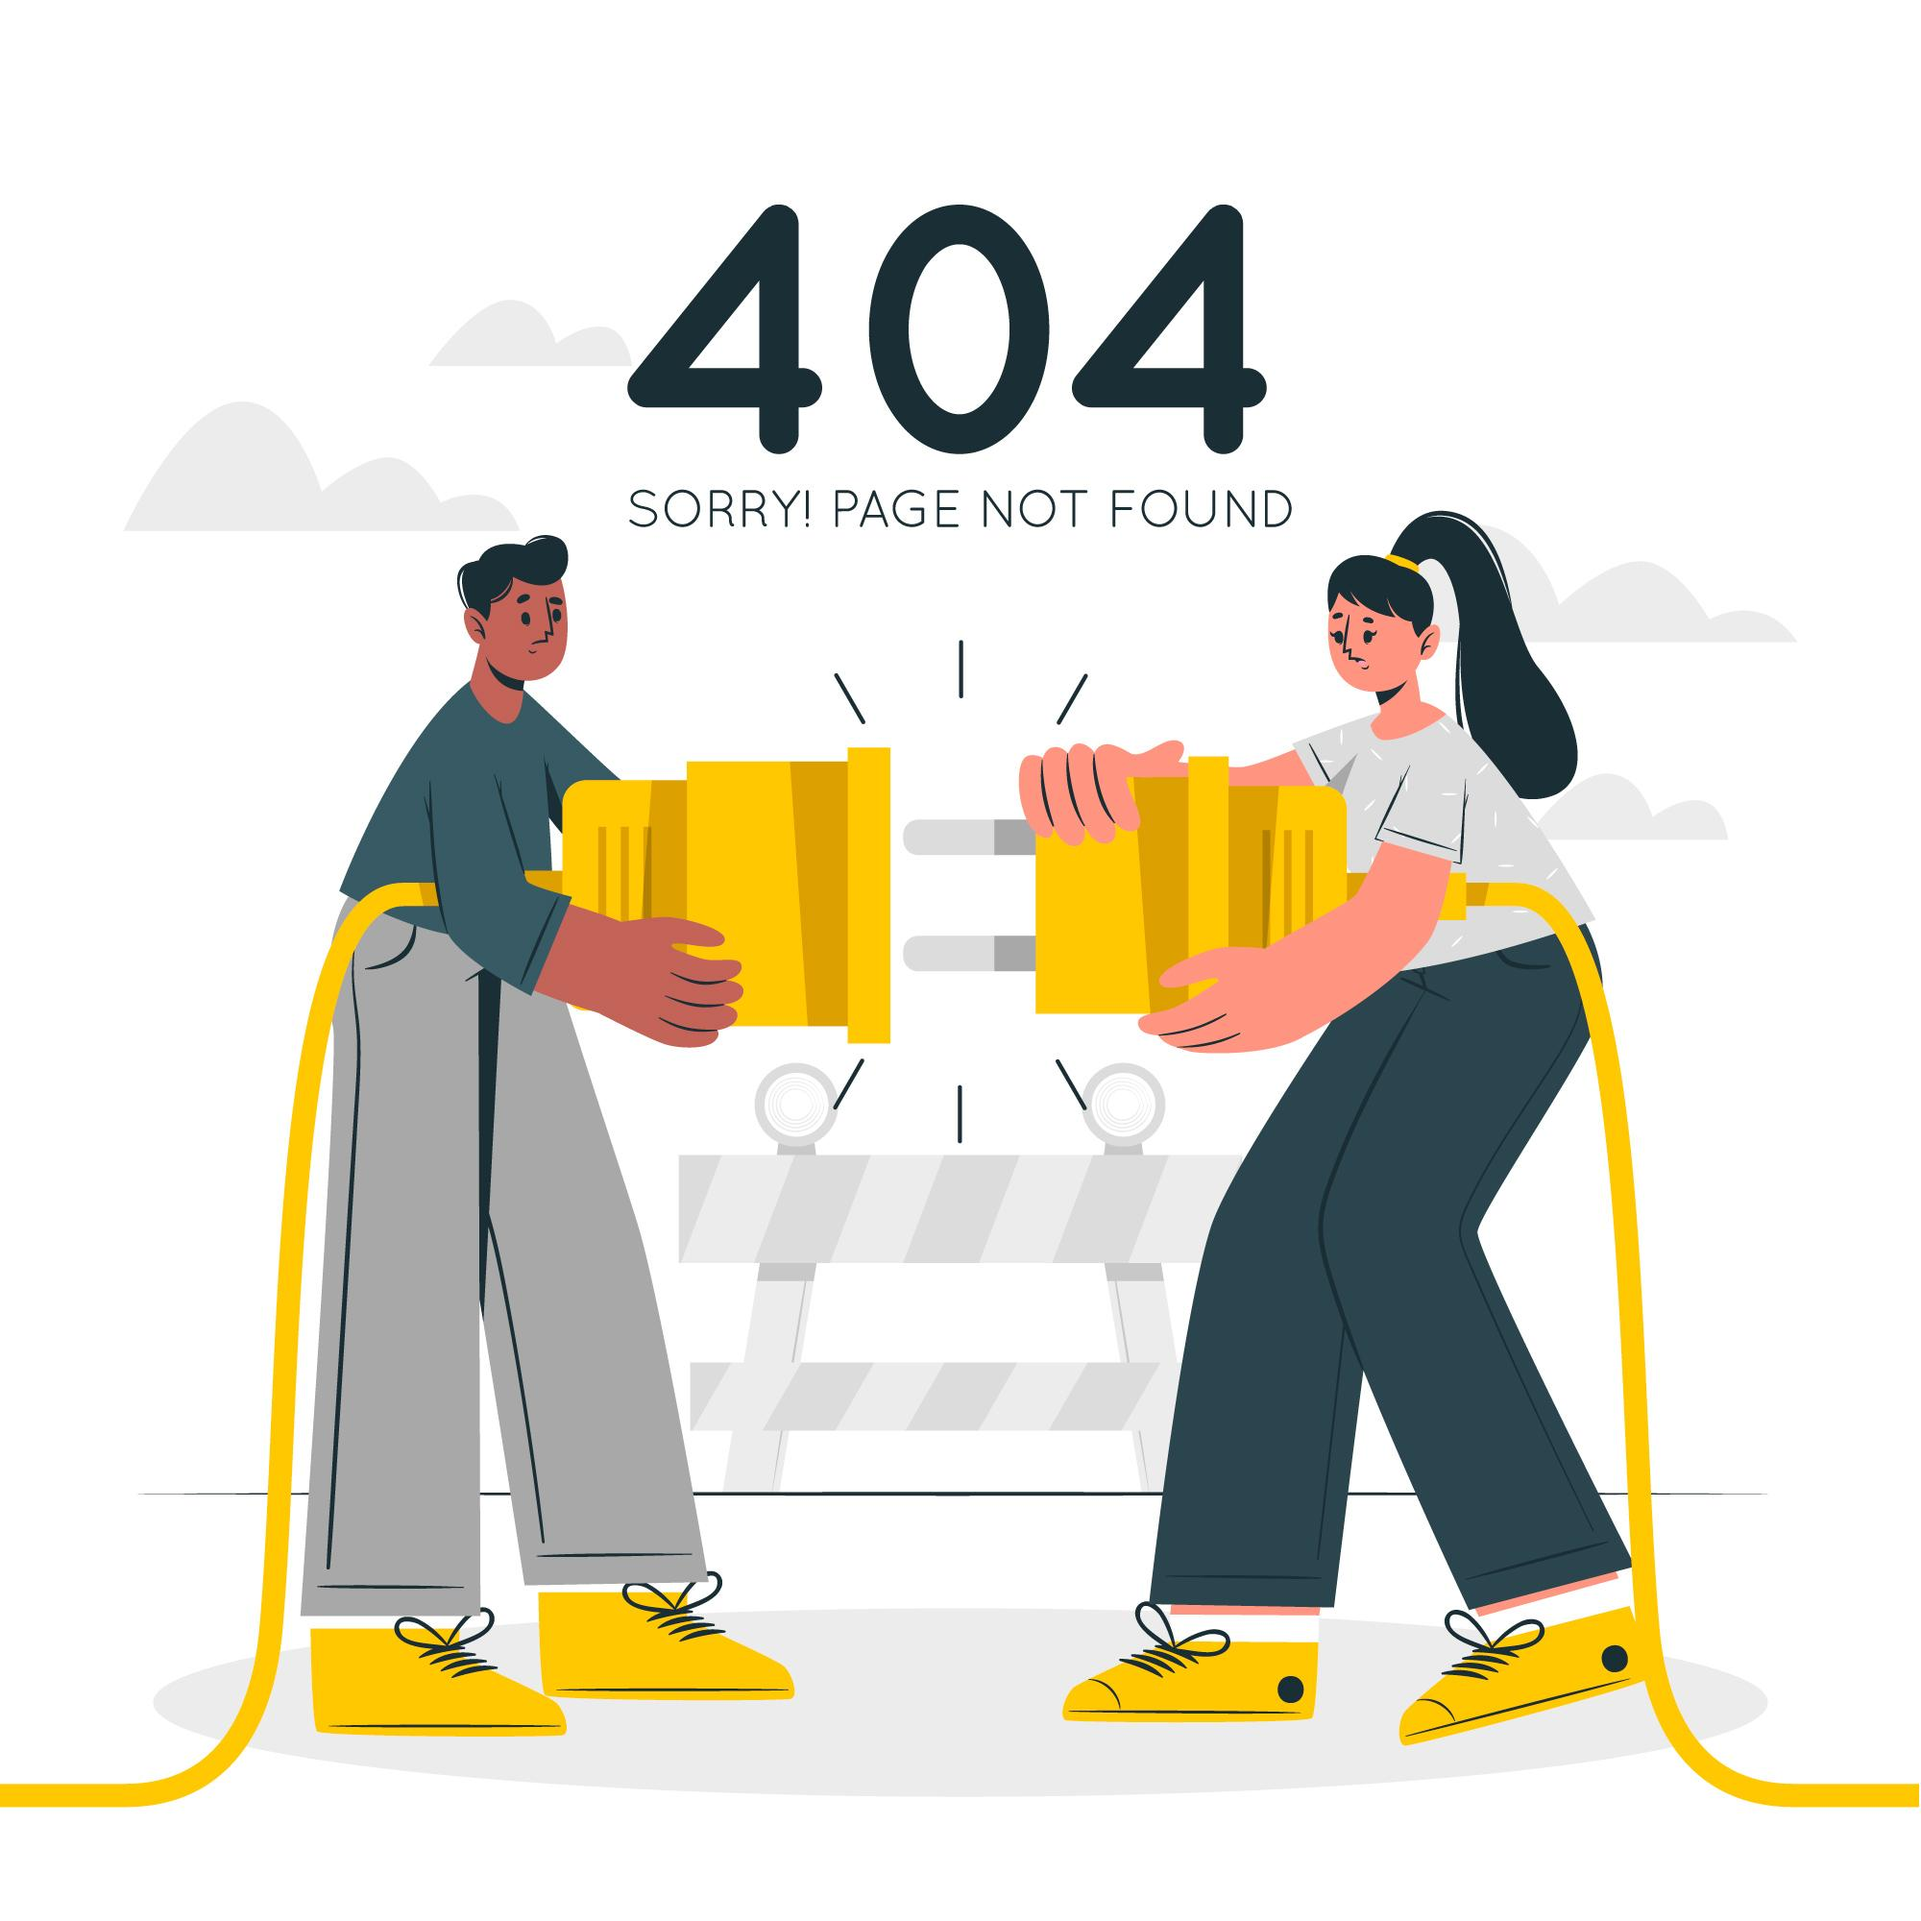
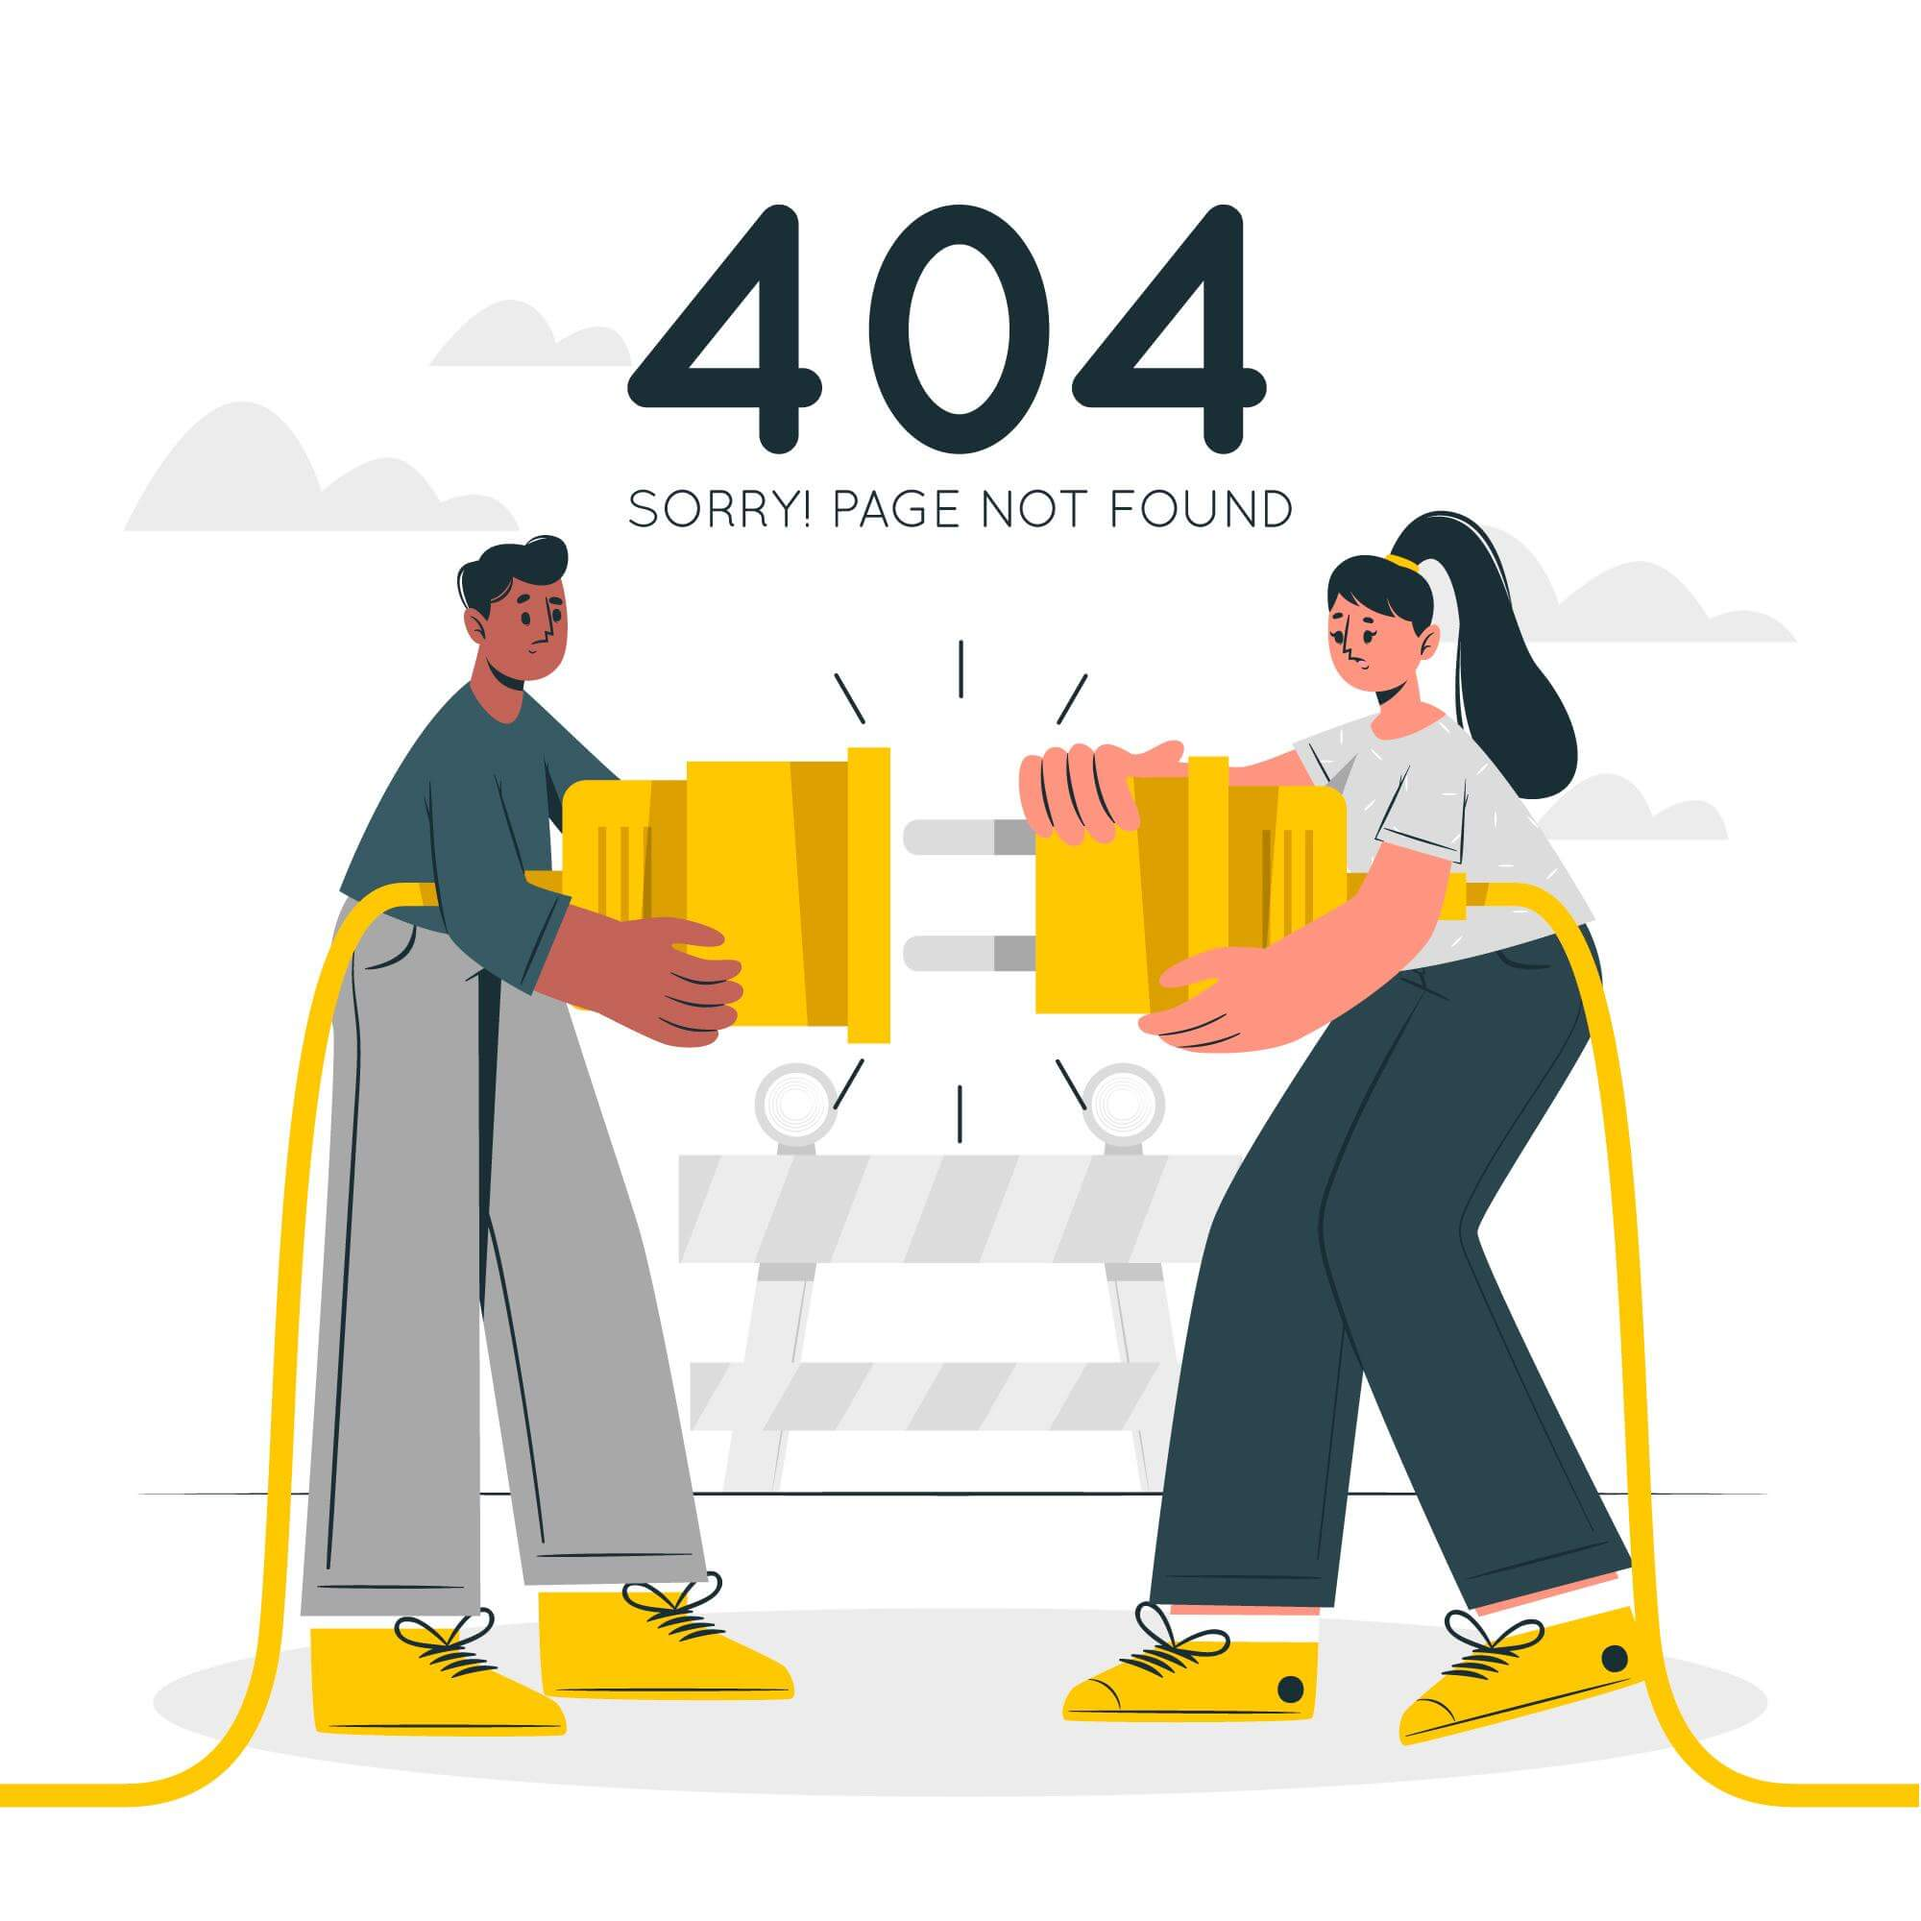
Edit performance

diff --git a/README.md b/README.md
@@ -234,13 +234,16 @@ iii) Projects page
 iv) Contact us page
 
 #### Performance 
-<details><summary>Home page</summary><img src="docs/performance/Home-page-performance.png"></details>
 
-<details><summary>About us page</summary><img src="docs/performance/project-page-performance.png"></details>
+<details><summary>Home page</summary><img src="docs/performance/home-page-performance.png"></details>
 
-<details><summary>Project page</summary><img src="docs/performance/project-page-performance.png"></details>
+<details><summary>About us page</summary><img src="docs/performance/about-us-page-performance.png"></details>
 
-<details><summary>Contact us page </summary><img src="docs/performance/contact-us-page-performance.png"></details>
+<details><summary>Project page</summary><img src="docs/performance/projects-page-performance.png"></details>
+
+<details><summary>Contact us page</summary><img src="docs/performance/contact-page-performance.png"></details>
+
+<details><summary>404 page</summary><img src="docs/performance/404-page-performance.png"></details>
 
 
 ### Device testing
